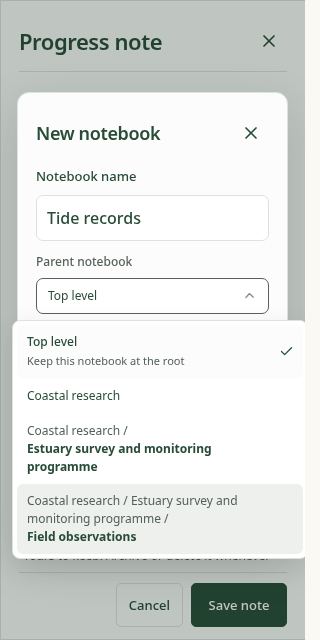
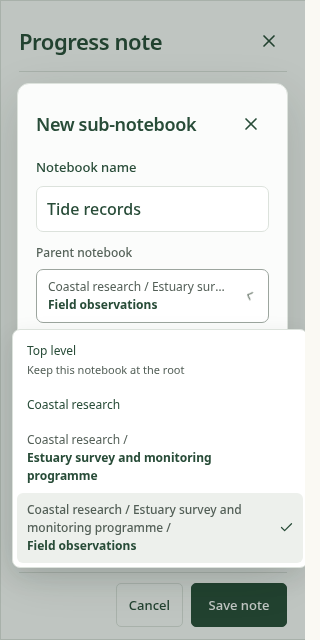
fix(notes): start nested creation in the selected notebook

diff --git a/packages/website/src/components/dashboard/memory-editor.tsx b/packages/website/src/components/dashboard/memory-editor.tsx
@@ -1107,7 +1107,7 @@ export function MemoryEditor({
       )}
       {createNotebook && (
         <NotebookDialog
-          action={{ mode: "create" }}
+          action={{ mode: "create", parentId: projectId || undefined }}
           close={() => setCreateNotebook(false)}
           onSaved={(project) => setProjectId(project.id)}
         />

diff --git a/documentation/design/screenshots/note-workspace/README.md b/documentation/design/screenshots/note-workspace/README.md
@@ -27,7 +27,7 @@ website CSS, based on `9ee71cc9`:
 
 - [Desktop form, 1440 × 900](note-form-desktop.png): note type and retention sit in separate groups. Save and Cancel stay below the scrolling fields.
 - [Mobile form, 390 × 844](note-form-mobile.png): the options stack, with keyboard focus on automatic typing and Save still visible.
-- [Parent notebook picker, 320 × 640](note-parent-picker.png): the highlighted destination appears below its full ancestor path. Canceling notebook creation returns focus to the note form with the draft intact.
+- [Parent notebook picker, 320 × 640](note-parent-picker.png): New notebook starts with the note’s selected notebook as its parent. You can change it or cancel to return focus to New notebook with the draft intact.
 - [Saved note properties, desktop detail](note-properties.png): generated tags are labeled separately from editable options.
 
 The mobile checks used a dark OS preference; the workspace retains its light palette.
